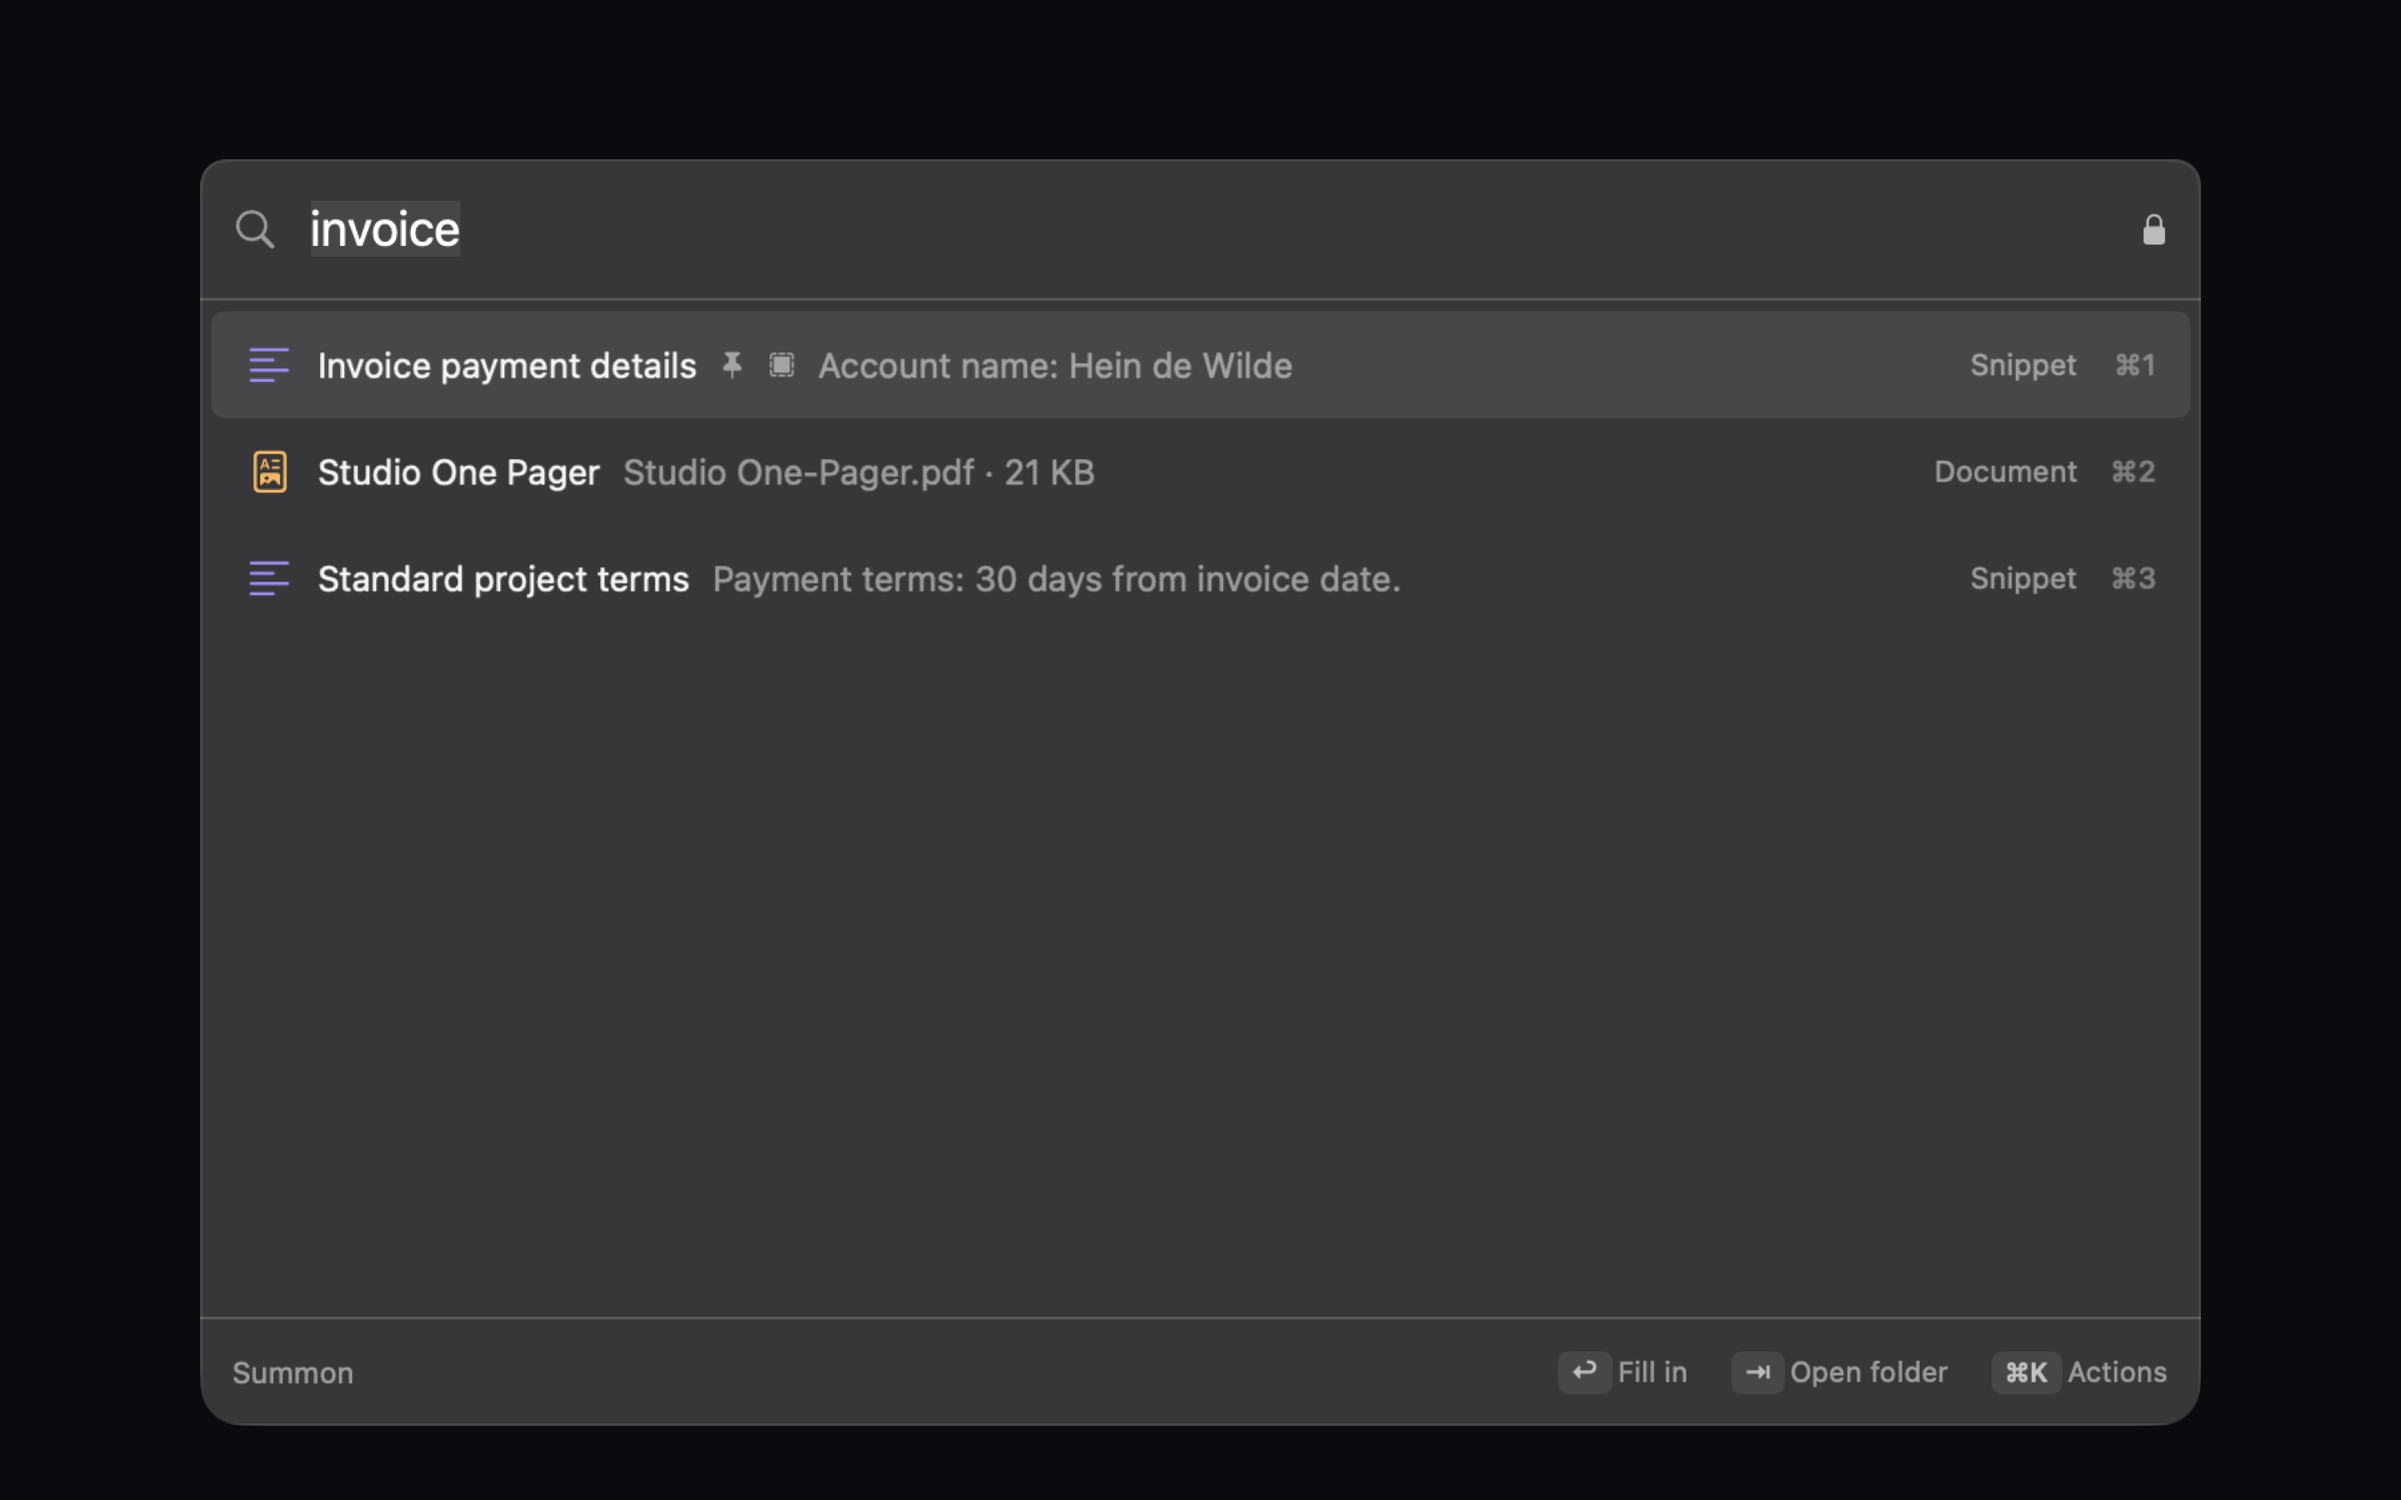
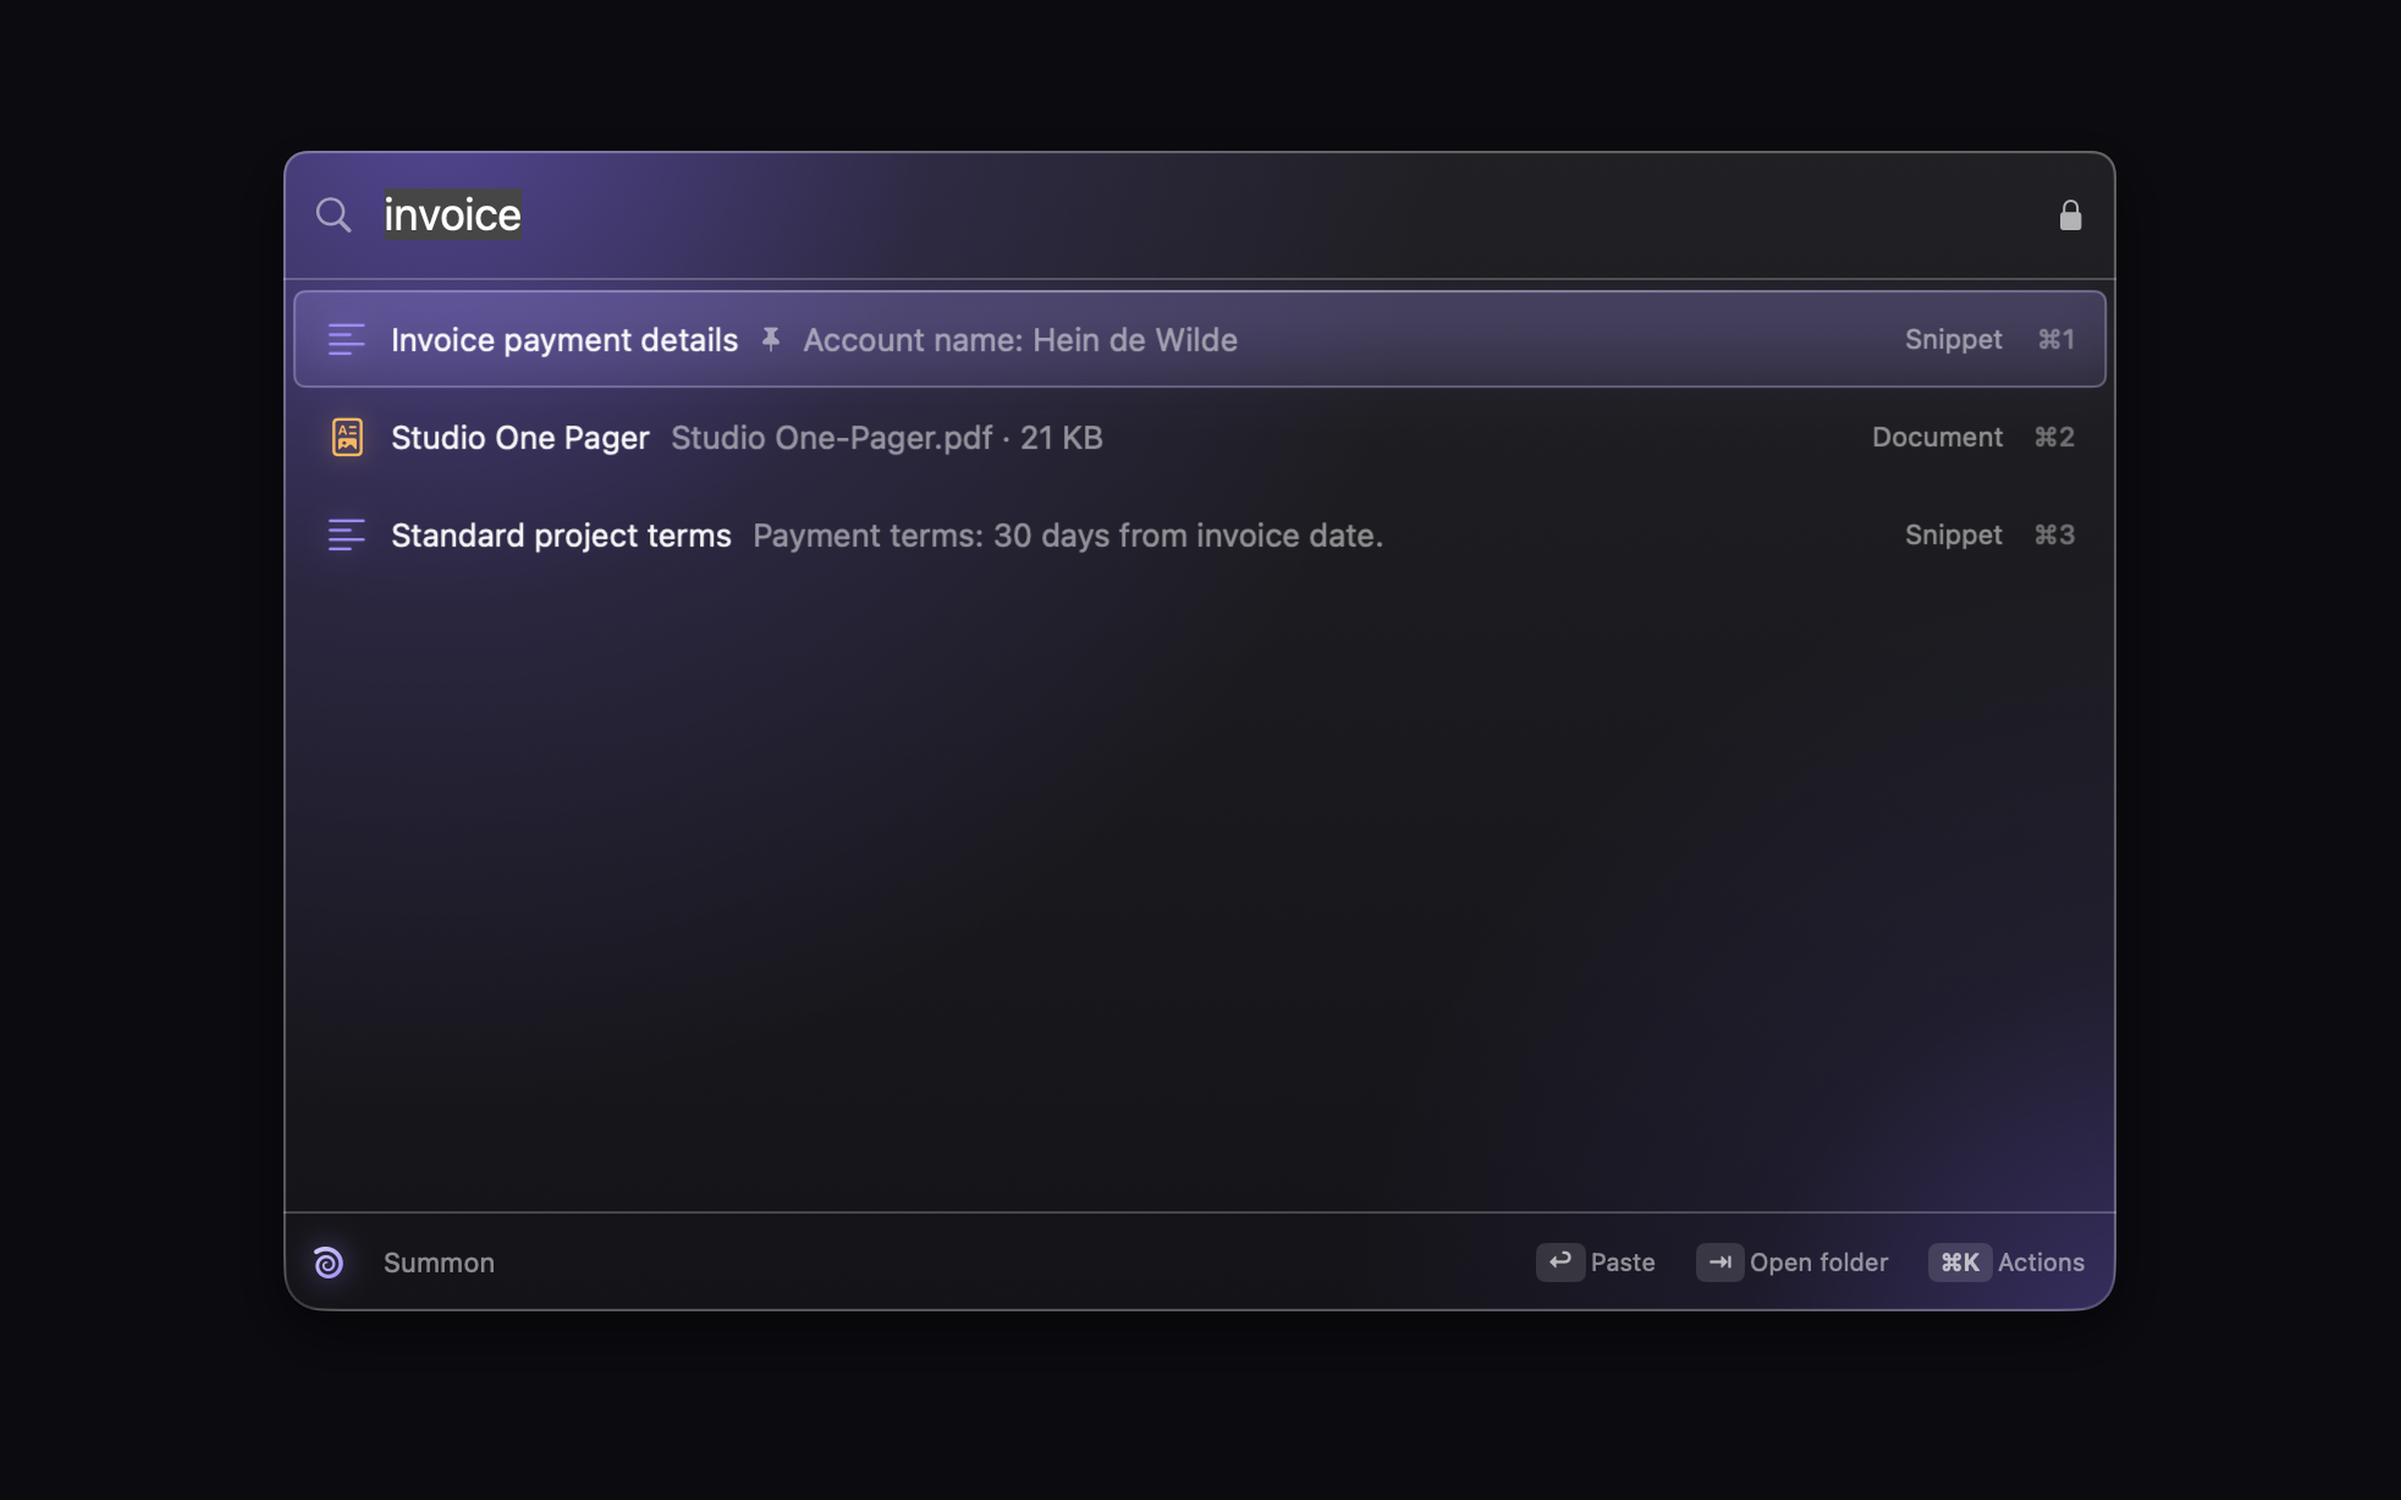
Refresh the App Store screenshots and listing after the removals
The panel frame still offered "Fill in" and the iPhone and iPad frames
showed {{first_name}} previews, so all of those are recaptured and the
fill-in frame is gone. The Mac frames now come from the live-capture
harness, whose panel goes on the sharpest screen rather than the one the
pointer is on, so it is never captured at 1x. Starter snippets and the
store description lose their em dashes, and the description no longer
talks about the test suite to people deciding whether to download.

diff --git a/Sources/SummonMacApp/SummonPanel.swift b/Sources/SummonMacApp/SummonPanel.swift
@@ -78,7 +78,9 @@ public final class PanelController: NSObject, NSWindowDelegate {
     public func showForCapture() {
         let panel = panel ?? makePanel()
         self.panel = panel
-        position(panel)
+        // On the sharpest screen rather than the pointer's: a capture should not
+        // depend on where someone's mouse happens to be, nor come out at 1x.
+        position(panel, on: NSScreen.screens.max { $0.backingScaleFactor < $1.backingScaleFactor })
         panel.orderFrontRegardless()
     }
 
@@ -153,9 +155,9 @@ public final class PanelController: NSObject, NSWindowDelegate {
 
     /// Centred horizontally and set high on the screen the pointer is on — where the
     /// eye already is, rather than dead centre.
-    private func position(_ panel: SummonPanel) {
+    private func position(_ panel: SummonPanel, on chosen: NSScreen? = nil) {
         let mouse = NSEvent.mouseLocation
-        let screen = NSScreen.screens.first { $0.frame.contains(mouse) } ?? NSScreen.main
+        let screen = chosen ?? NSScreen.screens.first { $0.frame.contains(mouse) } ?? NSScreen.main
         guard let frame = screen?.visibleFrame else { return }
 
         let x = frame.midX - PanelView.width / 2

diff --git a/Sources/SummonKitMac/StarterLibrary.swift b/Sources/SummonKitMac/StarterLibrary.swift
@@ -22,7 +22,7 @@ public enum StarterLibrary {
         // MARK: Snippets
 
         store.createSnippet(
-            title: "New enquiry — first reply",
+            title: "Reply to a new enquiry",
             body: """
             Hi there,
 
@@ -61,7 +61,7 @@ public enum StarterLibrary {
             body: """
             Hi there,
 
-            Thank you for thinking of me for this — it sounds like a genuinely interesting piece of work.
+            Thank you for thinking of me for this. It sounds like a genuinely interesting piece of work.
 
             Unfortunately my calendar is full for the next month, so I'd rather say no now than \
             hold you up. If timings shift on your side, do come back to me.

diff --git a/Sources/SummonHarness/PasteTest.swift b/Sources/SummonHarness/PasteTest.swift
@@ -135,7 +135,7 @@ enum PasteTest {
         try? await Task.sleep(for: .milliseconds(700))
 
         guard let snippet = model.store.snapshots.first(where: {
-            $0.kind == .text && $0.title == "New enquiry — first reply"
+            $0.kind == .text && $0.title == "Reply to a new enquiry"
         }) ?? model.store.snapshots.first(where: { $0.kind == .text }) else {
             check("A snippet is available to insert", false)
             flush()

diff --git a/docs/screenshots/appstore/README.md b/docs/screenshots/appstore/README.md
@@ -10,10 +10,9 @@ screenshot until someone opens it. `asc.py screenshots` cannot tell the differen
 
 - `iphone-*.png` — iPhone 17 Pro (6.9"), dark
 - `ipad-home.png` — iPad Pro 13", dark
-- `main-window-dark.png`, `panel-search-dark.png` — Mac, 2160 × 1360, from the Mac's own
-  snapshot harness (`SUMMON_DEMO=1 SUMMON_SNAPSHOT=<dir> dist/Summon.app/Contents/MacOS/Summon`).
-  The Mac App Store wants 2880 × 1800; scale up or re-render at that size. The harness
-  writes inside the app's container now that the app is sandboxed, and says where.
+- `mac-library-dark.png`, `mac-panel-dark.png` — Mac, 2880 × 1800: a real window from
+  the live-capture harness, grabbed with `screencapture -l` and centred on a dark canvas.
+  See "The Mac frames" below.
 
 Re-capture after a UI change:
 
@@ -24,7 +23,7 @@ Scripts/selftest.sh
 DEVICE=<simulator udid>
 xcrun simctl status_bar "$DEVICE" override --time "9:41" --batteryState charged \
   --batteryLevel 100 --wifiBars 3
-for screen in home detail fill settings; do
+for screen in home detail settings; do
   xcrun simctl terminate "$DEVICE" com.heindewilde.summon
   xcrun simctl launch "$DEVICE" com.heindewilde.summon -app.onboarded YES -SUMMON_SCREEN $screen
   sleep 6
@@ -48,9 +47,19 @@ xcrun simctl spawn "$DEVICE" defaults write com.apple.keyboard.preferences \
 
 ## The Mac frames
 
-`SUMMON_SNAPSHOT` renders them, but only from a build with Screen Recording permission:
-without it macOS substitutes a yellow "restricted" placeholder for anything backed by a
-window server surface, and the harness writes that out as happily as it would write the
-real thing. The signing change cost the old grant, so `mac-*.png` here are padded from
-`docs/screenshots/*.png`, which were rendered while it held. Re-grant Screen Recording
-to `dist/Summon.app` to render fresh ones.
+`SUMMON_LIVE` opens the real view in a real window without taking focus, and writes
+that window's number to `SUMMON_LIVE_INFO`, so `screencapture -l` grabs exactly it.
+The capturing process (the terminal) needs Screen Recording; the app does not. The
+panel goes on the sharpest screen, not the pointer's, so the frame is never 1x.
+
+```sh
+INFO="$HOME/Library/Containers/com.heindewilde.summon/Data/tmp/live.txt"
+SUMMON_DEMO=1 SUMMON_APPEARANCE=dark SUMMON_LIVE=panel SUMMON_LIVE_QUERY=invoice \
+  SUMMON_LIVE_INFO="$INFO" dist/Summon.app/Contents/MacOS/Summon &
+sleep 6; screencapture -x -l"$(cat "$INFO")" panel.png; kill %1
+# SUMMON_LIVE=library SUMMON_LIVE_KIND=document for the library window
+```
+
+The iPhone and iPad apps do not seed a starter library, so copy the Mac demo library
+(`~/Library/Group Containers/JV4MVRB77Q.group.com.heindewilde.summon/Summon-Demo`)
+into the simulator's app group as `Summon` before capturing them.

diff --git a/docs/store/listing.md b/docs/store/listing.md
@@ -35,14 +35,14 @@ The reply you keep rewriting, the IBAN, the passport scan. One keystroke on the 
 ## Description (4,000 characters)
 
 ```
-Summon holds the handful of things you reuse — the canned reply, the IBAN, the VAT number, the passport scan, the portfolio PDF — and gets one of them to you in about a second.
+Summon holds the handful of things you reuse: the canned reply, the IBAN, the VAT number, the passport scan, the portfolio PDF. It gets any of them to you in about a second.
 
 On the Mac, press ⌥Space in any app, type a few letters, press ↩, and it is pasted where your cursor already was. No window to find, no tab to switch to, no clipboard to babysit. On iPhone and iPad, tap an item and it is on the clipboard, ready to paste wherever you were going.
 
 Because Summon holds less than a notes app, it can be much better at the one moment that matters.
 
 FAST
-• A keystroke re-ranks 2,000 items in about half a millisecond — measured by the test suite, not claimed
+• Instant, even with thousands of items. Results keep up with your typing
 • Results are ranked by what you actually reach for, and by what you have used in this app before
 • Fuzzy search that reaches inside PDFs and images, so a phrase on page four is one search away
 
@@ -51,10 +51,10 @@ EVERYTHING IN ONE PLACE
 • Nested folders with their own icon and colour, tags that cut across them, pins for what you need most
 
 ON EVERY DEVICE
-• Your library syncs through your own iCloud — there is no Summon account and no Summon server
+• Your library syncs through your own iCloud. No account to create, and no server of ours in between
 • Save into Summon from any app's share sheet, or from Finder's Quick Actions
 • A widget of pinned items that copies on tap, plus Shortcuts, Siri and a Control Centre button
-• Spotlight finds your items — except the ones you have marked sensitive, which are never indexed
+• Spotlight finds your items, except the ones you mark sensitive, which are never indexed
 
 PRIVATE BY DESIGN
 • No account, no analytics, no tracking, no ads
